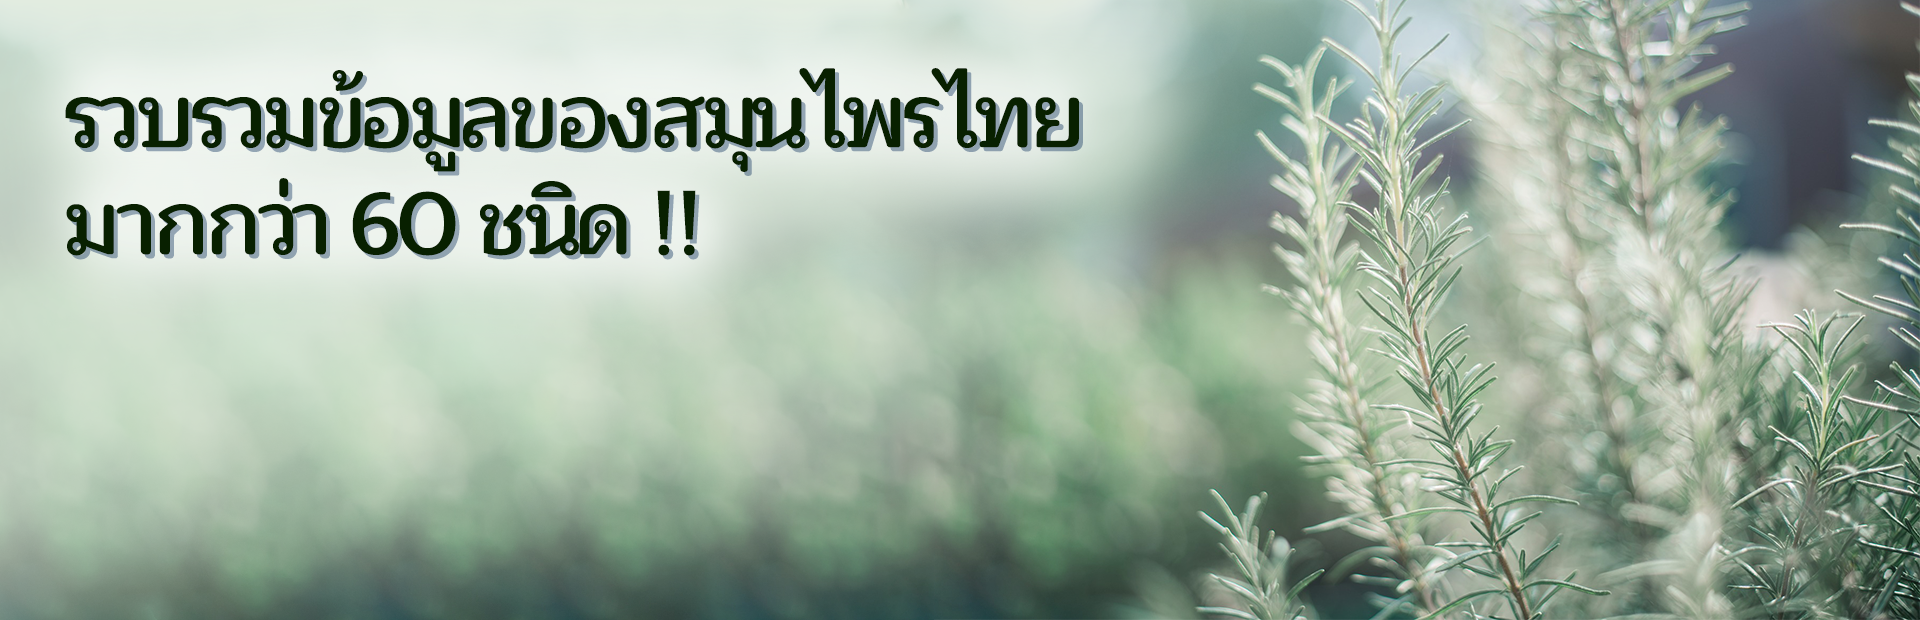
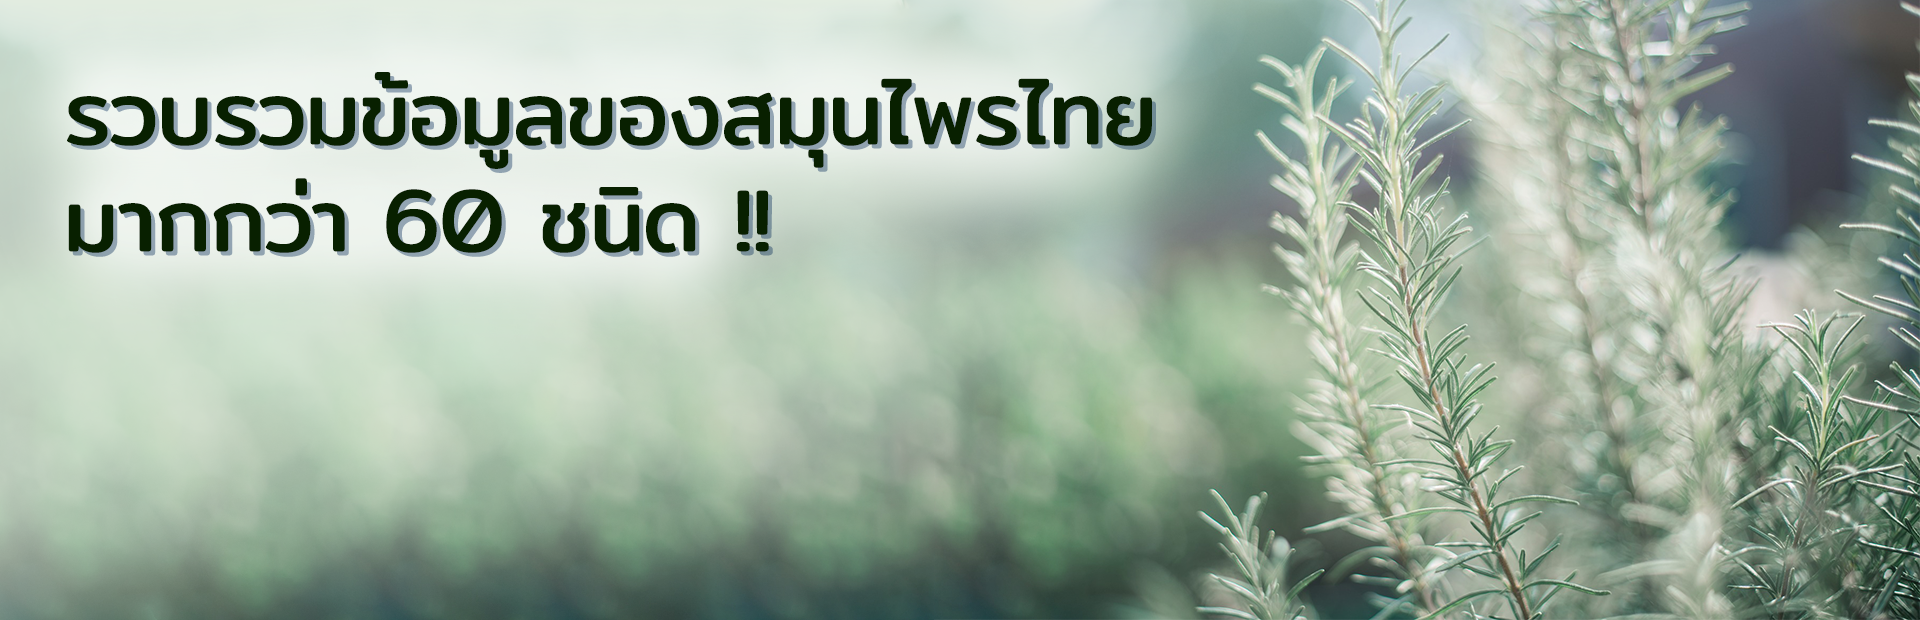
add index carousel

Changed region(s): [[0.0312, 0.0919, 0.625, 0.429]]

diff --git a/src/app/index/index.component.html b/src/app/index/index.component.html
@@ -1,11 +1,15 @@
-<owl-carousel-o [options]="customOptions">
-    <ng-template carouselSlide>
-        <img src="assets/carousel-image/carousel1.png">
-    </ng-template>
-    <ng-template carouselSlide>
-        <img src="assets/carousel-image/carousel2.png">
-    </ng-template>
-    <ng-template carouselSlide>
-        <img src="assets/carousel-image/carousel3.png">
-    </ng-template>
-</owl-carousel-o>
+<div class="index-container">
+    <div class="carousal-home">
+        <owl-carousel-o [options]="customOptions">
+            <ng-template carouselSlide>
+                <img src="assets/carousel-image/carousel1.png">
+            </ng-template>
+            <ng-template carouselSlide>
+                <img src="assets/carousel-image/carousel2.png">
+            </ng-template>
+            <ng-template carouselSlide>
+                <img src="assets/carousel-image/carousel3.png">
+            </ng-template>
+        </owl-carousel-o>
+    </div>
+</div>

diff --git a/src/styles.scss b/src/styles.scss
@@ -1,7 +1,8 @@
 @import url('https://fonts.googleapis.com/css2?family=Maitree:wght@400;500;600;700&display=swap');
+@import url('https://fonts.googleapis.com/css2?family=Mitr:wght@200;400;500;600;700&display=swap');
 
 body {
-    font-family: 'Maitree', serif;
+    font-family: 'Mitr', serif;
     margin: 0;
     padding: 0 0 50px 0;
 

diff --git a/src/app/index/index.component.scss b/src/app/index/index.component.scss
@@ -1,0 +1,11 @@
+.index-container{
+    .carousal-home{
+        ::ng-deep .owl-dots{
+            margin-top: -30px;
+            margin-bottom: 10px;
+            z-index: 1;
+            position: relative;
+        }
+    }
+}
+

diff --git a/src/app/searchpage/herb-box/herb-box.component.scss b/src/app/searchpage/herb-box/herb-box.component.scss
@@ -29,6 +29,7 @@
             user-select: text;
             font-size: 16px;
             margin: 0;
+            font-weight: 500;
             span{
                 font-weight: 400;
             }

diff --git a/src/app/index/index.component.ts b/src/app/index/index.component.ts
@@ -21,6 +21,6 @@ export class IndexComponent implements OnInit {
     navSpeed: 700,
     items: 1,
     autoplay: true,
-    autoplaySpeed: 500
+    autoplaySpeed: 500,
   }
 }
